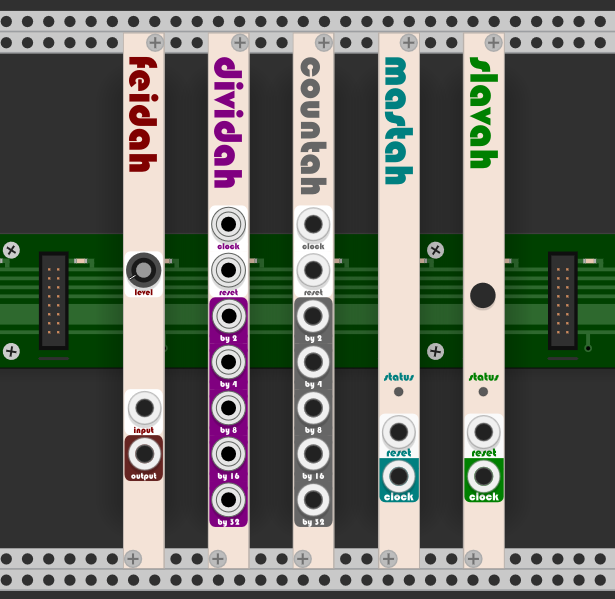
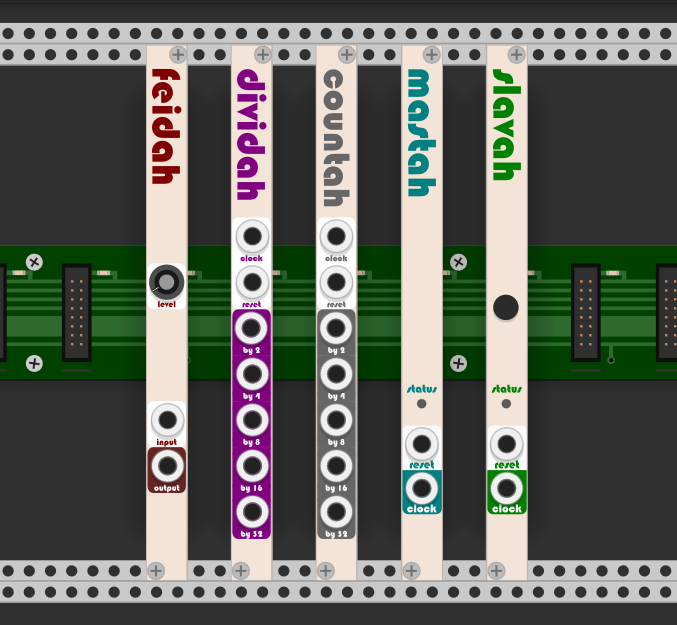
Slight visual correction

diff --git a/src/Dividah.cpp b/src/Dividah.cpp
@@ -89,15 +89,15 @@ struct DividahWidget : ModuleWidget {
 		addChild(createWidget<ScrewSilver>(Vec(box.size.x - 2 * RACK_GRID_WIDTH, RACK_GRID_HEIGHT - RACK_GRID_WIDTH)));
 
 		// Inputs
-		addInput(createInputCentered<PJ301MPort>(mm2px(Vec(5.1, 46.0)), module, Dividah::_CLOCK_INPUT));
-		addInput(createInputCentered<PJ301MPort>(mm2px(Vec(5.1, 57.0)), module, Dividah::_RESET_INPUT));
+		addInput(createInputCentered<_Port>(mm2px(Vec(5.1, 46.0)), module, Dividah::_CLOCK_INPUT));
+		addInput(createInputCentered<_Port>(mm2px(Vec(5.1, 57.0)), module, Dividah::_RESET_INPUT));
 
 		// Outputs
-		addOutput(createOutputCentered<PJ301MPort>(mm2px(Vec(5.0, 68.0)), module, Dividah::_BY2_OUTPUT));
-		addOutput(createOutputCentered<PJ301MPort>(mm2px(Vec(5.1, 79.0)), module, Dividah::_BY4_OUTPUT));
-		addOutput(createOutputCentered<PJ301MPort>(mm2px(Vec(5.1, 90.0)), module, Dividah::_BY8_OUTPUT));
-		addOutput(createOutputCentered<PJ301MPort>(mm2px(Vec(5.1, 101.0)), module, Dividah::_BY16_OUTPUT));
-		addOutput(createOutputCentered<PJ301MPort>(mm2px(Vec(5.1, 112.0)), module, Dividah::_BY32_OUTPUT));
+		addOutput(createOutputCentered<_Port>(mm2px(Vec(5.0, 68.0)), module, Dividah::_BY2_OUTPUT));
+		addOutput(createOutputCentered<_Port>(mm2px(Vec(5.1, 79.0)), module, Dividah::_BY4_OUTPUT));
+		addOutput(createOutputCentered<_Port>(mm2px(Vec(5.1, 90.0)), module, Dividah::_BY8_OUTPUT));
+		addOutput(createOutputCentered<_Port>(mm2px(Vec(5.1, 101.0)), module, Dividah::_BY16_OUTPUT));
+		addOutput(createOutputCentered<_Port>(mm2px(Vec(5.1, 112.0)), module, Dividah::_BY32_OUTPUT));
 	}
 };
 
